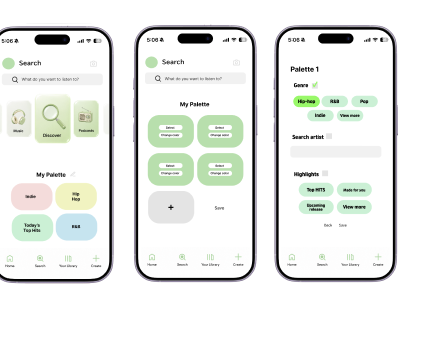
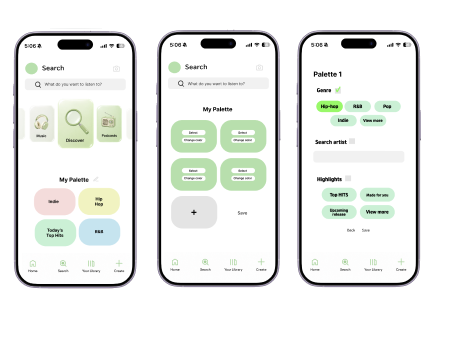
Make Spotify slide images transparent and fix clipped phone mockup
The problem/research, before-after, customizing, and light mode
screenshots kept their original white/colored slide backgrounds,
showing as flat boxes instead of floating elements like the rest of
the site. Flood-filled the backgrounds transparent. Also fixed the
light mode crop, which was cutting off the left edge of the first
phone mockup.

Changed region(s): [[0.0, 0.062, 0.9438, 0.8056], [0.5176, 0.5887, 0.548, 0.6197]]

diff --git a/index.html b/index.html
@@ -477,7 +477,7 @@
   <div class="canvas">
     <div class="el" style="left:0px;top:90px;width:1920px;height:100px;font-size:75px;font-weight:700;color:#1DB954;text-align:center;">LIGHT MODE EXTENSION</div>
     <div class="el" style="left:360px;top:210px;width:1200px;height:100px;font-size:34px;color:#181818;line-height:1.4;text-align:center;">Recognizing the lack of a light mode in Spotify, this redesign introduces an alternative interface for a more flexible viewing experience.</div>
-    <div class="el" style="left:608px;top:340px;width:704px;height:585px;"><img src="assets/spotify-05-lightmode.png" alt="Search, palette, and light mode palette editing screens"></div>
+    <div class="el" style="left:595px;top:340px;width:730px;height:584px;"><img src="assets/spotify-05-lightmode.png" alt="Search, palette, and light mode palette editing screens"></div>
     <a class="el back-home-btn" href="#slide-1" style="left:825px;top:950px;width:270px;height:58px;font-size:22px;"><span class="arrow">&larr;</span> Back to Home</a>
   </div>
 </section>
